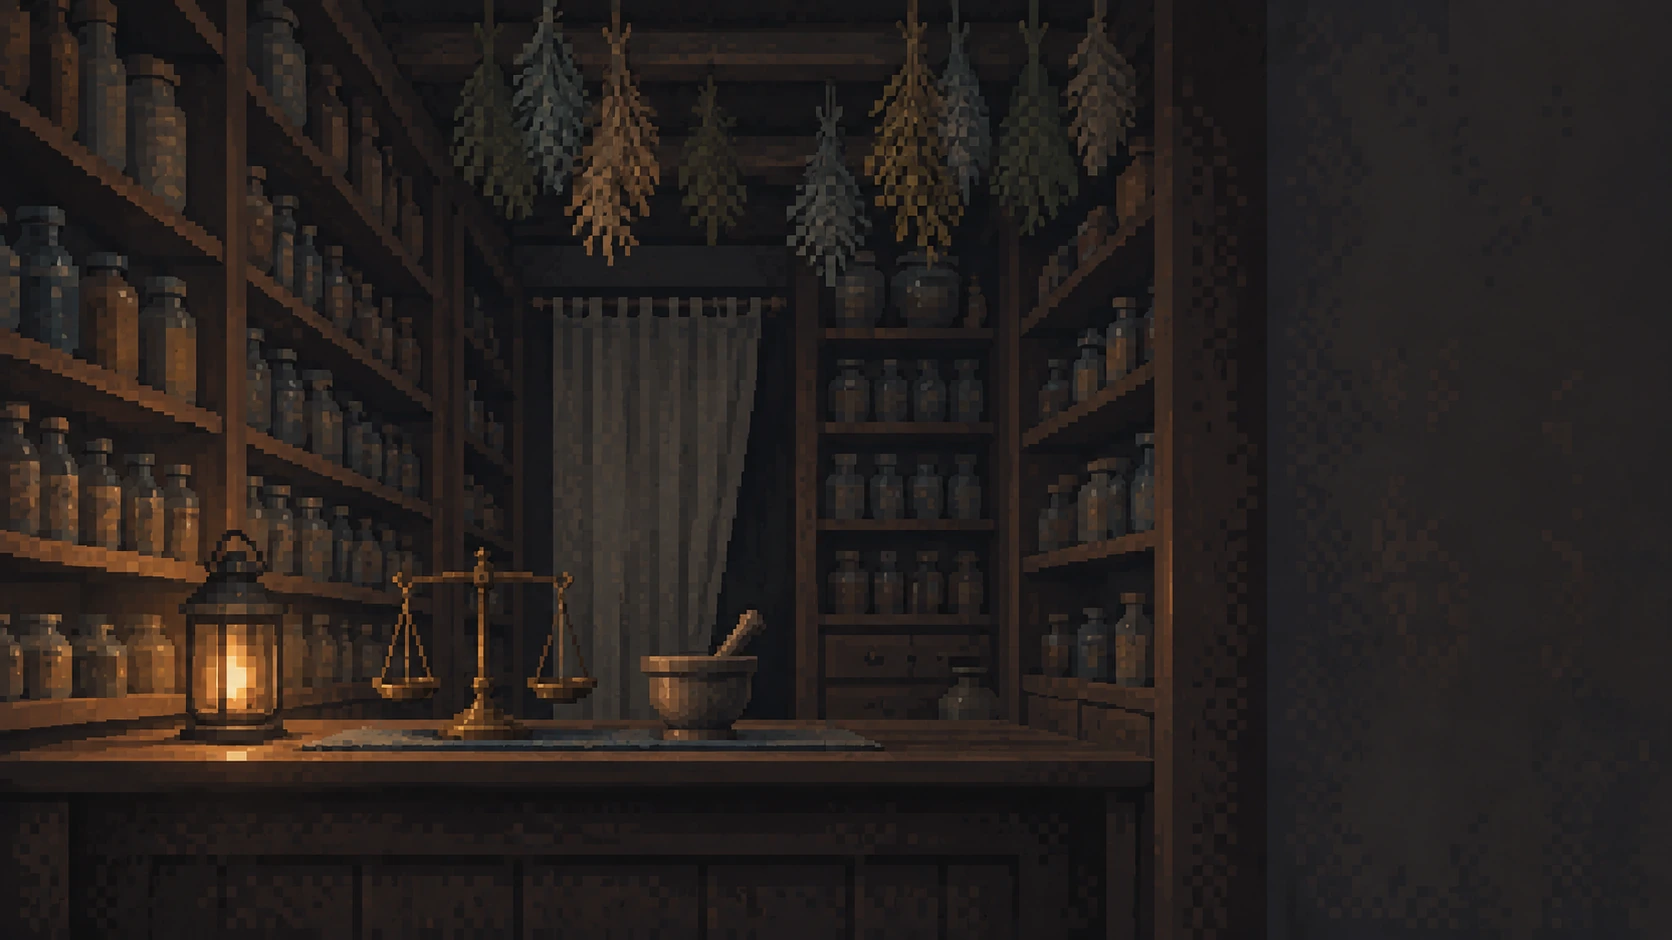
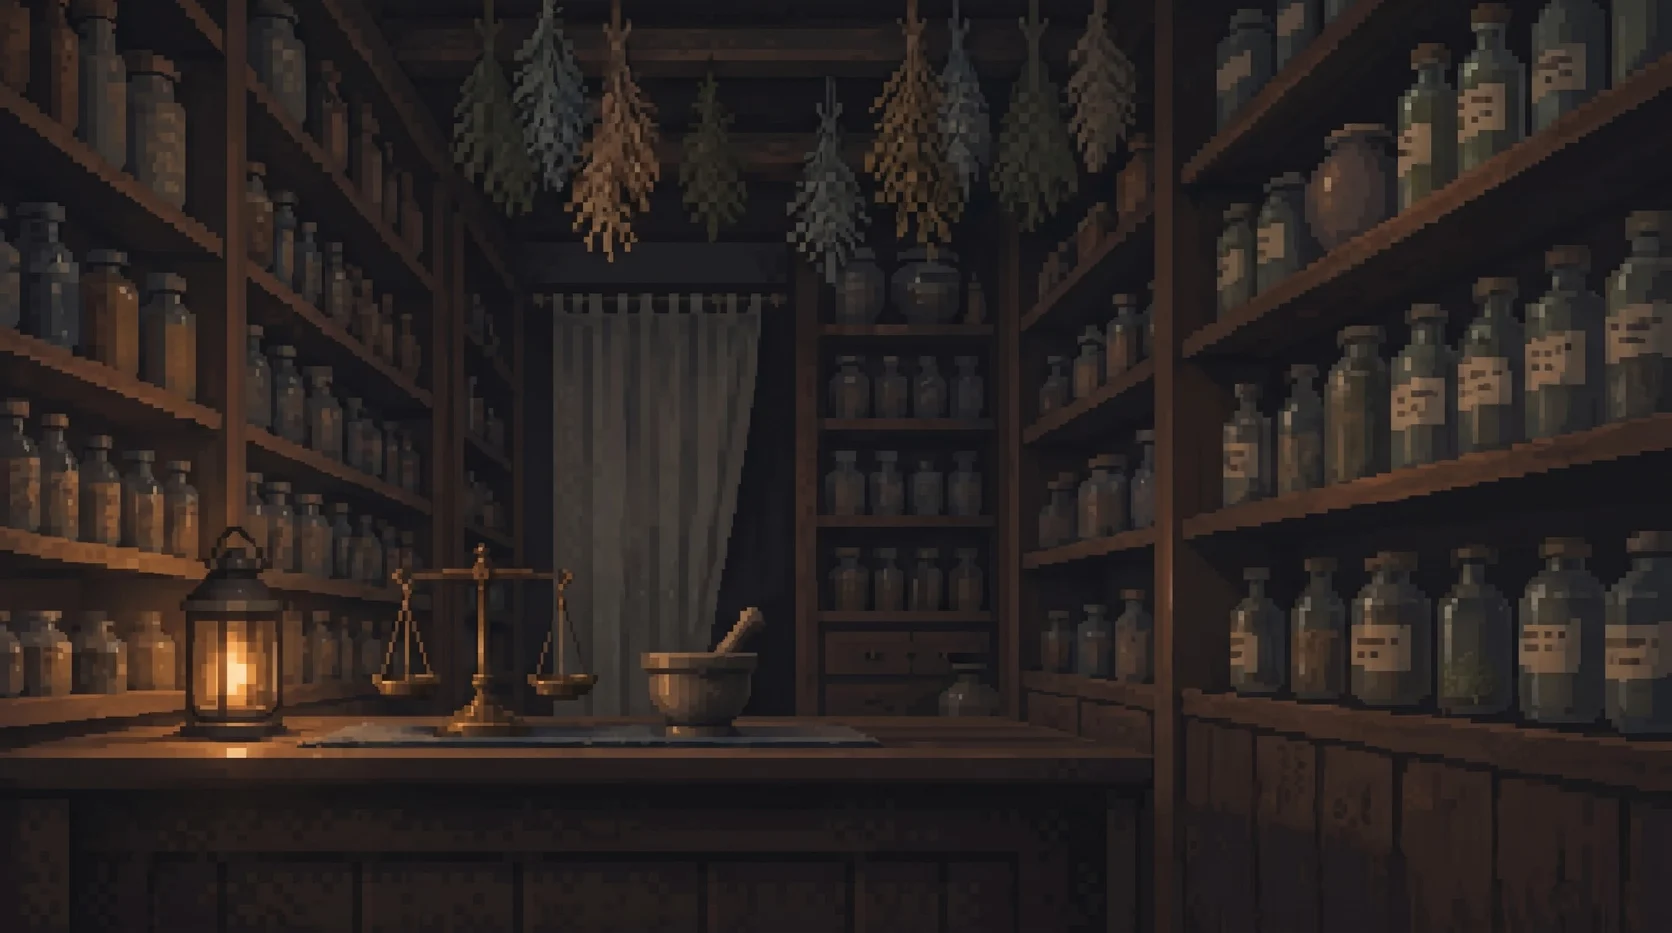
ПОРТ: аптека — полки вместо тёмной полосы, стиль почти тот же (8 из 48)
Claude-Session: https://claude.ai/code/session_01AohsHedWdkfggLZ7wdatry

diff --git a/Игры/Порт/ДОСКА.md b/Игры/Порт/ДОСКА.md
@@ -153,7 +153,7 @@
 | Р21 | **Пролог (третья версия 12.11, по отзыву автора «ролик стрёмный, перебор с плёнкой, звук хрипит, музыка не та, текст странный — 3/10»).** Видео убрано совсем. Один пиксельный кадр прибытия оживает: вода колышется (пиксели воды и отражения огней построчно, 12 кадров в секунду), камера медленно подходит; без растра, зерна и цветокоррекции. Текст как в комиксе: рассказ — бумажной подписью в углу кадра, реплика — облаком с головой говорящего (грузчик — временная голова с фото-кандидата `Ресурсы/Лица/port_gruzchik_golova.webp`, ждёт живописного пикселя, Р23). Бросок швартова — физика каната (стравливается с руки, ложится на борт, петля на тумбу / в воду / за тумбу). Разговор — камера подходит к причалу, на «схоронили» кадр темнеет и музыка уходит в тишину; «Ты не знал.» в темноте → выбор начала. Звук: синтезированный шум моря убран (он хрипел), под рассказом — тема доков. Код `Движок/пролог.js`, строки `Данные/вступление.js`, тест `пролог.mjs`. **Ждёт автора:** оценка третьей версии; лицо грузчика (старшого) в живописном пикселе; озвучка (13.11) — ключа ElevenLabs у автора нет, делаем открытыми моделями в контейнере: синтез Piper (или Silero), проверка распознаванием faster-whisper. Тексты с тегами — `Данные/озвучка-пролога.js`, сверка слов с субтитрами — в `пролог.mjs`. В окружение «Телефон» уже добавлены Hugging Face и Silero; **ещё нужны два адреса — `us.aws.cdn.hf.co` (файлы моделей) и `download-r2.pytorch.org` (PyTorch для Silero)**, подтвердить можно только с ПК. Потом — доска проб (по 3–4 голоса, спокойно и с эмоцией) и выбор автора; вопросы истории В65–В70 | Вступление |
 | Р22 | **Линия Уны Марш — отложено автором 12.11, доделать потом.** У Уны теперь портрет (`Ресурсы/Лица/port_una_marsh_art.webp`: невинное закрытое платье, покрывало, ухмылка, рука у пряди). Автор хочет полноценную запретную любовную линию, не четыре намёка. Черновой ход в 10 шагов (свеча, ниша с книгами, исповедальня, город без покрывала, ставни под дождём, поминальный день 20-го, слух, Второй журнал, отъезд) и вопросы В71–В74 (насколько далеко, почему нельзя, финал, возраст) — в Редакторе, `Канон/Редактор/01_Ждёт_тебя.md`. Диалоги не писать, пока автор не ответит | Чат 12.11, портреты |
 | Р23 | **Портреты в живописный пиксель — идёт 12.11.** Все лица переводятся из фото в стиль Мэсти через Gemini (новый чат на каждый, пурпурный фон, 2–3 попытки на сходство), вырезка — `Скрипты/вырезать_портрет.py`, файл `*_art.webp`, в данных `портрет:` переключается на него. Страница с промтами — `Игры/Сайт/portrety.html` (сборка `Скрипты/portrety_page.py`). Готово: Нора, Сиб, Старшая, Ния, Уна. Ждут: остальные 21 из 26, у 35 жителей портрета нет совсем | Чат 12.11, портреты |
-| Р24 | **Фоны в спокойный пиксель — начато 13.11.** Эталон — `Ресурсы/Быт/вдова.webp` (выбор автора из 10). 48 фонов: 28 фонов мест, плюс отмеченные автором (пристань у трапа, кухня после смены, торговый и маяк — бледные, улица финала) и похожие на них (доки, работы, пролог, город). Страница с промтами — `Игры/Сайт/fony.html` (сборка `Скрипты/fony_page.py`), палитры общие с портретами (`Скрипты/palitry.py`). Готово: 7 из 48 — «Синий час» целиком (крыльцо, зал, коридор, комнаты Нии и Фреи, кухня, кабинет Ярны) (старые — `Источники_Арта/Альтернативы/`) | Чат 13.11, фоны |
+| Р24 | **Фоны в спокойный пиксель — начато 13.11.** Эталон — `Ресурсы/Быт/вдова.webp` (выбор автора из 10). 48 фонов: 28 фонов мест, плюс отмеченные автором (пристань у трапа, кухня после смены, торговый и маяк — бледные, улица финала) и похожие на них (доки, работы, пролог, город). Страница с промтами — `Игры/Сайт/fony.html` (сборка `Скрипты/fony_page.py`), палитры общие с портретами (`Скрипты/palitry.py`). Готово: 8 из 48 — «Синий час» целиком (крыльцо, зал, коридор, комнаты Нии и Фреи, кухня, кабинет Ярны), аптека (старые — `Источники_Арта/Альтернативы/`) | Чат 13.11, фоны |
 
 ## 2. Ждёт вычитки или текста автора
 
